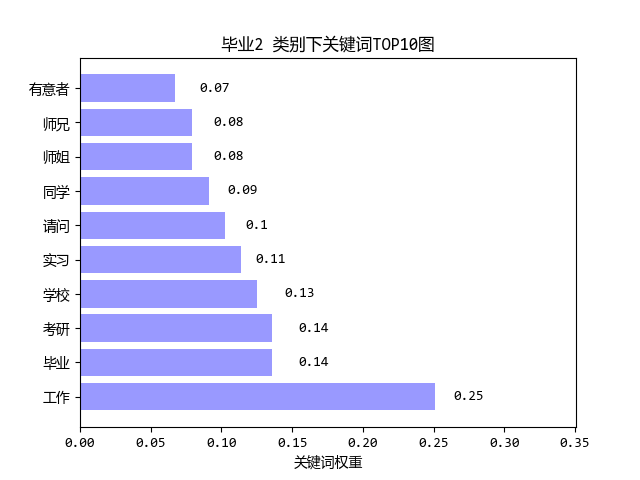
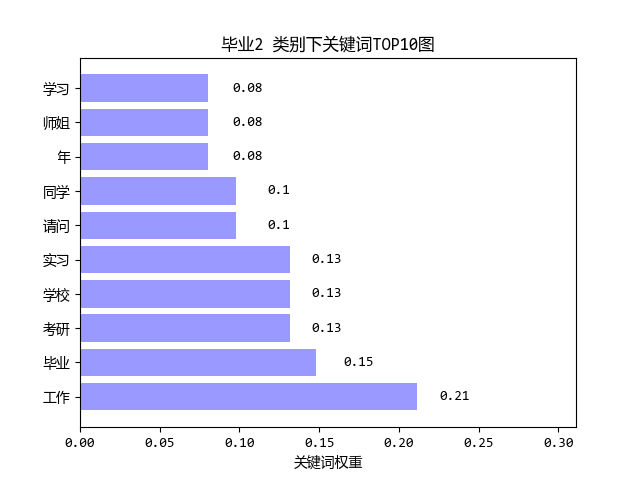
change some showing

diff --git a/app/templates/weibo/index.html b/app/templates/weibo/index.html
@@ -57,13 +57,31 @@
 </form>
 
 </div>
+<br />
 
+
+<!--<div class="row masonry-container">-->
+    <!--{% for content in contents %}-->
+  <!--<div class="col-sm-6 col-md-4 item">-->
+      <!--<div class="thumbnail">-->
+      <!--<div class="caption">-->
+        <!--<p>{{ content[0] }}</p>-->
+        <!--<p><a href="#" class="btn btn-primary" role="button">评论{{ content[1] }}</a>-->
+            <!--<a href="#" class="btn btn-default" role="button">点赞{{ content[2] }}</a>-->
+        <!--</p>-->
+      <!--</div>-->
+
+      <!--</div>-->
+    <!--</div>-->
+
+    <!--{% endfor %}-->
+<!--</div>-->
 <div class="container">
-    <table class="table table-hover table-striped table-condensed">
+  		<table class=" table table-hover">
   			<thead>
-     			<th class="active">ID</th>
+  				<th class="active">ID</th>
   				<th class="active">微博内容</th>
-  				<th class="active">评论个数</th>
+  				<th class="active">评论数</th>
   				<th class="active">点赞数</th>
   				<th class="active">创建时间</th>
   			</thead>
@@ -71,26 +89,47 @@
             <tbody>
 
                 {% for content in contents %}
-                <!--
-                <tr>
-                    <td>{{ loop.index }}</td>
-                    <td>{{ content[0] }}</td>
-                    <td>{{ content[1] }}</td>
-                    <td>{{ content[2] }}</td>
-                    <td>{{ content[3] }}</td>
-                </tr>
-                -->
-
-                <td class="info">{{ loop.index }}</td>
+            <tr>
+                <td class="active">{{ loop.index }}</td>
             	  <td class="success">{{ content[0] }}</td>
 				  <td class="warning">{{ content[1] }}</td>
 				  <td class="danger">{{ content[2] }}</td>
-                  <td class="info">{{ content[3]}}</td>
-                </tr>
+                <td class="info">{{ content[3]}}</td>
+            </tr>
             </tbody>
                 {% endfor %}
 
-    </table>
+        </table>
 </div>
 
+
+<script>
+(function( $ ) {
+
+    var $container = $('.masonry-container');
+    $container.imagesLoaded( function () {
+        $container.masonry({
+            columnWidth: '.item',
+            itemSelector: '.item'
+        });
+    });
+
+    //Reinitialize masonry inside each panel after the relative tab link is clicked -
+    $('a[data-toggle=tab]').each(function () {
+        var $this = $(this);
+
+        $this.on('shown.bs.tab', function () {
+
+            $container.imagesLoaded( function () {
+                $container.masonry({
+                    columnWidth: '.item',
+                    itemSelector: '.item'
+                });
+            });
+
+        }); //end shown
+    });  //end each
+
+})(jQuery);
+</script>
 {% endblock %}

diff --git a/app/templates/weibo/display.html b/app/templates/weibo/display.html
@@ -4,23 +4,26 @@
 
 
 {% block page_content %}
-<div class="container">
-    <div class="row">
-    <div class="python-jumbotron jumbotron">
-      <div class="container">
-        <div class="row">
-          <div class="col-lg-4">
-            <img src="{{url_for('static', filename='img/python-logo.png')}}" alt="python_logo">
-          </div>
-          <div class="col-lg-8">
-            <p style="color: #e6e8ea">
-              python 用于微博舆情监控系统的展示平台，以下是 广中医I栋 聚类后的有关数据。根据算法计算得到的热点话题进行舆情监控。
-            </p>
-          </div>
-        </div>
-      </div>
+<!--<div class="container">-->
+    <!--<div class="row">-->
+    <!--<div class="python-jumbotron jumbotron">-->
+      <!--<div class="container">-->
+        <!--<div class="row">-->
+          <!--<div class="col-lg-4">-->
+            <!--<img src="{{url_for('static', filename='img/python-logo.png')}}" alt="python_logo">-->
+          <!--</div>-->
+          <!--<div class="col-lg-8">-->
+            <!--<p style="color: #e6e8ea">-->
+              <!--python 用于微博舆情监控系统的展示平台，以下是 广中医I栋 聚类后的有关数据。根据算法计算得到的热点话题进行舆情监控。-->
+            <!--</p>-->
+          <!--</div>-->
+        <!--</div>-->
+      <!--</div>-->
+    <!--</div>-->
+<!--</div>-->
+    <div class="page-header text-center">
+    <h1> 聚类后的热度直方图</h1>
     </div>
-</div>
     <img src="{{ url_for('static', filename="images/hot/hot.png") }}">
     <img src="{{ url_for('static', filename=img_name) }}">
 

diff --git a/app/static/styles.css b/app/static/styles.css
@@ -212,3 +212,41 @@ h2:hover > a.anchor {
 
 
 
+.product-container {
+      width: 260px;
+      margin: 0 auto;
+      border-radius: 10px;
+      background: #f6f8f7;
+
+      .name {
+        border-bottom: 1px solid @gray-light;
+        font-size: 20px;
+        padding: 2px;
+      }
+      .interest {
+        color: #1da427;
+        font-size: 70px;
+        font-weight: bold;
+        padding: 0px;
+        margin-bottom: -30px;
+
+        .percent {
+          font-size: 31px;
+        }
+      }
+      .intro {
+        padding: 5px;
+      }
+      .strong {
+        padding: 3px;
+        font-size: 17px;
+        color: @white;
+        background: #326c84;
+        border-radius: 0 0 10px 10px;
+      }
+}
+
+
+/*.table {*/
+    /*table-layout: fixed;*/
+}

diff --git a/app/templates/base.html b/app/templates/base.html
@@ -13,6 +13,7 @@
     <script src="{{ url_for('static', filename='bootstrap-table/dist/bootstrap-table.min.js') }}"></script>
 
     <!-- Latest compiled and minified Locales -->
+    <script src="https://unpkg.com/masonry-layout@4.2.1/dist/masonry.pkgd.min.js"></script>
     <script src="{{ url_for('static', filename='bootstrap-table/dist/locale/bootstrap-table-zh-CN.min.js') }}"></script>
 {% endblock %}
 

diff --git a/app/templates/weibo/sensitive.html b/app/templates/weibo/sensitive.html
@@ -14,7 +14,7 @@
           </div>
           <div class="col-lg-8">
             <p style="color: #e6e8ea">
-              python 用于微博舆情监控系统的展示平台，以下是 广中医I栋 聚类后的有关数据。根据算法计算得到的热点话题进行舆情监控。
+              广中医I栋 相关敏感词监控界面。
             </p>
           </div>
         </div>

diff --git a/app/static/bootstrap/css/bootstrap.css b/app/static/bootstrap/css/bootstrap.css
@@ -182,6 +182,7 @@ optgroup {
 table {
   border-spacing: 0;
   border-collapse: collapse;
+  table-layout: fixed;
 }
 td,
 th {

diff --git a/app_runner.py b/app_runner.py
@@ -63,7 +63,7 @@ if __name__ == '__main__':
     #labels = run_min_kmeans(k=2, vsm_name='total')
 
     #  画图模块
-    run_draw_pie(db=2)
+    #run_draw_pie(db=2)
     #run_draw_chart(db=1)
     #run_draw_top_keyword_barh(db=2)
     #run_draw_cluster_chart(db=1)
@@ -85,7 +85,7 @@ if __name__ == '__main__':
     end = '2018-04-29'
     end_time = arrow.get("2016-10-30")
     #run_new_all_process(start, end, k=5)
-    #run_old_all_process(end_time)
+    run_old_all_process(end_time)
     #run_cluster(start, end, k=7)
     #run_old_all_process(end_time)
     #list_hot_topic(db=1)

diff --git a/handle_text/hot_topic.py b/handle_text/hot_topic.py
@@ -242,7 +242,7 @@ def list_hot_topic(db=1):
             keywords = client.hgetall(keyword_name)
             keywords = sorted(keywords.items(), key=lambda d: d[1], reverse=True)
             words = [word.decode('utf-8') for word, value in keywords]
-            key_text = ' '.join(words[:7])
+            key_text = ' '.join(words[:8])
             sequence.append([key_name, key_text, value])
     return sequence
 

diff --git a/handle_text/utils.py b/handle_text/utils.py
@@ -130,7 +130,7 @@ def classify_k_cluster_from_category(labels, texts, vsm_name='total', filename='
                + like_num.encode('utf-8') + '\t'.encode('utf-8') + pub_time.encode('utf-8') + '\n'.encode('utf-8')
         vsm = vsm.decode('utf-8').encode('utf-8')
         with open(vsm_path, 'ab') as fp:
-            fp.write(text)
+            #fp.write(text)
             fp.write(vsm + '\n'.encode('utf-8'))
 
 

diff --git a/app/weibo/views.py b/app/weibo/views.py
@@ -95,7 +95,7 @@ def display():
     :return:
     """
     result = {}
-    keywords, img_name, rows, category = get_max_hot_keyword_chart(db=2)
+    keywords, img_name, rows, category = get_max_hot_keyword_chart(db=1)
     name = "images/%s/%s" % (category, img_name)
     results = sorted(keywords.items(), key=lambda d: d[1], reverse=True)[::-1]
     keywords = [key.decode('utf-8') for key, value in results]

diff --git a/utils.py b/utils.py
@@ -78,7 +78,7 @@ def run_first_cluster(start_time, end_time, k=1):
         data_set = numpy.mat(load_data_set(vsm_name=category[:-4]))
         k = find_optimal_k_value(data_set)
         print(category, k)
-        #k = find_best_k_value(rows, category)
+        k = find_best_k_value(rows, category)
         print('k:', k)
         if k == 1:
             labels = [0] * len(data_set)
